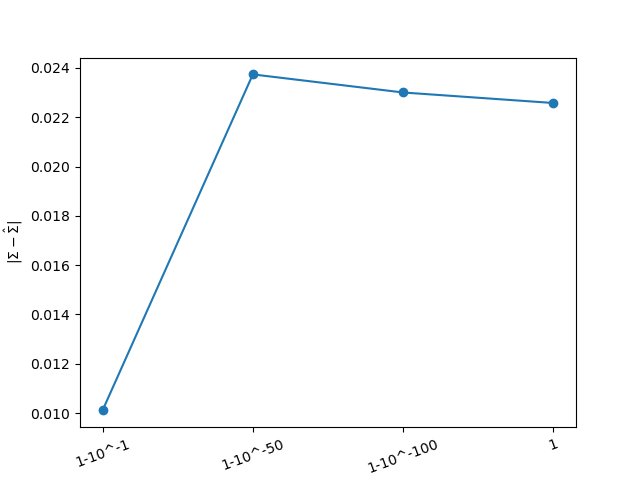
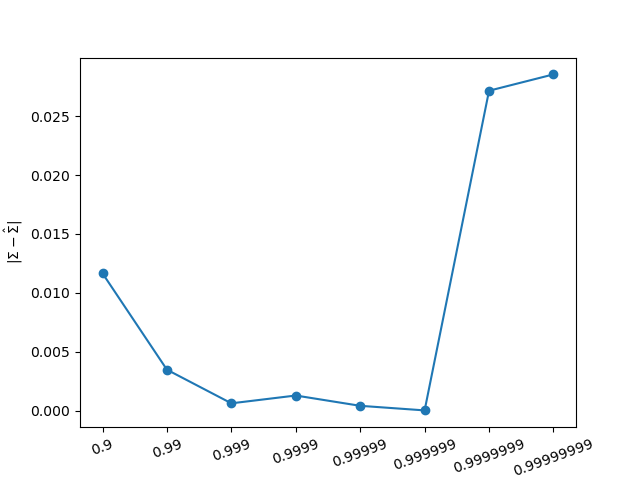
commit

diff --git a/hmc1.html b/hmc1.html
@@ -3,7 +3,7 @@
 "http://www.w3.org/TR/xhtml1/DTD/xhtml1-strict.dtd">
 <html xmlns="http://www.w3.org/1999/xhtml" lang="en" xml:lang="en">
 <head>
-<!-- 2020-05-27 Wed 11:58 -->
+<!-- 2020-05-27 Wed 14:51 -->
 <meta http-equiv="Content-Type" content="text/html;charset=utf-8" />
 <meta name="viewport" content="width=device-width, initial-scale=1" />
 <title>&lrm;</title>
@@ -26,9 +26,9 @@
 <h2>Table of Contents</h2>
 <div id="text-table-of-contents">
 <ul>
-<li><a href="#orge205c0c">Metropolis</a>
+<li><a href="#org2d606e8">Metropolis</a>
 <ul>
-<li><a href="#org9b835f5">Metropolis</a></li>
+<li><a href="#orge205c0c">Metropolis</a></li>
 <li><a href="#orge63d099">Metropolis-Hastings</a></li>
 <li><a href="#org364893f">Relation of the two Metropolis algorithm</a></li>
 </ul>
@@ -36,7 +36,7 @@
 <li><a href="#orgd2d1196">HMC</a>
 <ul>
 <li><a href="#org0eade1c">Hamiltonian Dynamics</a></li>
-<li><a href="#org9bb30f5">&ldquo;Monte Carlo&rdquo;</a>
+<li><a href="#orgfa863f5">&ldquo;Monte Carlo?&rdquo;</a>
 <ul>
 <li><a href="#orgc71e651">Accept prob.</a>
 <ul>
@@ -121,13 +121,13 @@
 <p>
 受到krauth的statistical mechanics algorithm and computation的启发，我们采用扔皮球的方式进行讨论。
 </p>
-<div id="outline-container-orge205c0c" class="outline-2">
-<h2 id="orge205c0c">Metropolis</h2>
-<div class="outline-text-2" id="text-orge205c0c">
+<div id="outline-container-org2d606e8" class="outline-2">
+<h2 id="org2d606e8">Metropolis</h2>
+<div class="outline-text-2" id="text-org2d606e8">
 </div>
-<div id="outline-container-org9b835f5" class="outline-3">
-<h3 id="org9b835f5">Metropolis</h3>
-<div class="outline-text-3" id="text-org9b835f5">
+<div id="outline-container-orge205c0c" class="outline-3">
+<h3 id="orge205c0c">Metropolis</h3>
+<div class="outline-text-3" id="text-orge205c0c">
 <p>
 此时从位置a扔一个皮球，假设皮球只能落在位置a,b,c，而且皮球将等可能地落在这三个位置上。
 </p>
@@ -220,9 +220,9 @@
 </p>
 </div>
 </div>
-<div id="outline-container-org9bb30f5" class="outline-3">
-<h3 id="org9bb30f5">&ldquo;Monte Carlo&rdquo;</h3>
-<div class="outline-text-3" id="text-org9bb30f5">
+<div id="outline-container-orgfa863f5" class="outline-3">
+<h3 id="orgfa863f5">&ldquo;Monte Carlo?&rdquo;</h3>
+<div class="outline-text-3" id="text-orgfa863f5">
 <p>
 假设未知概率 &pi;(x) 参数的维度很高，则普通的蒙特卡洛方法无法进行抽样。
 这时可以其用势能来表示此概率：
@@ -231,12 +231,19 @@
 \[K(p)=-\frac{p^T p}{2}\]
 通过哈密顿仿真得到轨迹，在轨迹上使用蒙特卡洛进行抽样，可以获得 &pi;(x) 的参数。
 以下是哈密顿蒙特卡洛算法[information theory, inference and learning,p388]。
+</p>
+
+<p>
 该算法有两个问题：
 </p>
 <ol class="org-ol">
 <li>接受概率</li>
 <li>能量不守恒</li>
 </ol>
+
+<p>
+我们逐个进行讨论。
+</p>
 
 
 <div class="figure">
@@ -303,7 +310,7 @@
 </p>
 
 <p>
-虚线为哈密顿蒙特卡洛所的接受概率产生的误差，实线为采用更正后公式的结果。除了在步长很小或者很大的情况下，两种方案的结果区别不大。
+虚线为哈密顿蒙特卡洛所的接受概率产生的误差，实线为采用更正后公式的结果。在步长很小或者很大的情况下，两种方案的结果区别不大。
 当步长合适的情况下，更正公式产生的误差要小于原来方案。
 </p>
 
@@ -337,7 +344,7 @@
 <h2 id="orge06d956">Energy Conserved HMC</h2>
 <div class="outline-text-2" id="text-orge06d956">
 <p>
-如果对HMC算法进行修正，使其在重新生成动量的时候（算法第3行）保持总能量守恒(即p1和p2赋值相同)，则状态s1和状态s2的总能量相同，从而二者相互跳转概率相同。
+如果对HMC算法进行修正，使其在重新生成动量的时候（算法第3行）保持总能量守恒(即p1和p2幅值相同)，则状态s1和状态s2的总能量相同，从而二者相互跳转概率相同。
 从状态s2到s3运行哈密顿仿真，总能量不变，s2和s3之间相互跳转概率也相同。
 因此状态s1和s3之间相互跳转概率相同。
 \[\mathcal A(s_1\to s_3)=\mathcal A(s_3\to s_1)\] 
@@ -355,7 +362,7 @@
 
 <p>
 因此在不同仿真之间保持总能量恒定的前提下，正确的接受概率的公式应当为：
-\[p(x \to x_*)=\min(1,\frac{e^{-U(x_*)}}{e^{-U(x)}})\]
+\[p(x_1 \to x_2)=\min(1,\frac{e^{-U(x_2)}}{e^{-U(x_1)}})\]
 </p>
 
 
@@ -394,7 +401,7 @@
 </div>
 </div>
 <div id="postamble" class="status">
-<p class="date">Created: 2020-05-27 Wed 11:58</p>
+<p class="date">Created: 2020-05-27 Wed 14:51</p>
 </div>
 </body>
 </html>

diff --git a/nhmc.html b/nhmc.html
@@ -3,7 +3,7 @@
 "http://www.w3.org/TR/xhtml1/DTD/xhtml1-strict.dtd">
 <html xmlns="http://www.w3.org/1999/xhtml" lang="en" xml:lang="en">
 <head>
-<!-- 2020-05-27 Wed 09:56 -->
+<!-- 2020-05-27 Wed 14:52 -->
 <meta http-equiv="Content-Type" content="text/html;charset=utf-8" />
 <meta name="viewport" content="width=device-width, initial-scale=1" />
 <title>&lrm;</title>
@@ -131,10 +131,15 @@
 
 <div class="org-src-container">
 <pre class="src src-python"><span style="color: #715ab1;">rho</span> = <span style="color: #3a81c3;">[</span>.<span style="color: #4e3163;">9</span>,
-       .<span style="color: #4e3163;">99999999999999999999999999999999999999999999999999</span>,
-       .<span style="color: #4e3163;">9999999999999999999999999999999999999999999999999999999999999999999999999999999999999999999999999999</span>,
-       <span style="color: #4e3163;">1</span>
+       .<span style="color: #4e3163;">99</span>,
+       .<span style="color: #4e3163;">999</span>,
+       .<span style="color: #4e3163;">9999</span>,
+       .<span style="color: #4e3163;">99999</span>,
+       .<span style="color: #4e3163;">999999</span>,
+       .<span style="color: #4e3163;">9999999</span>,
+       .<span style="color: #4e3163;">99999999</span>
 <span style="color: #3a81c3;">]</span>
+
 <span style="color: #3a81c3; font-weight: bold;">for</span> i <span style="color: #3a81c3; font-weight: bold;">in</span> <span style="color: #3a81c3;">range</span><span style="color: #3a81c3;">(</span><span style="color: #3a81c3;">len</span><span style="color: #6c3163;">(</span>rho<span style="color: #6c3163;">)</span><span style="color: #3a81c3;">)</span>:
     <span style="color: #715ab1;">r</span> = rho<span style="color: #3a81c3;">[</span>i<span style="color: #3a81c3;">]</span>
     <span style="color: #715ab1;">SIGMA</span> = np.array<span style="color: #3a81c3;">(</span><span style="color: #6c3163;">[</span><span style="color: #2d9574;">[</span><span style="color: #4e3163;">1</span>, r<span style="color: #2d9574;">]</span>,<span style="color: #2d9574;">[</span>r, <span style="color: #4e3163;">1</span><span style="color: #2d9574;">]</span><span style="color: #6c3163;">]</span><span style="color: #3a81c3;">)</span>
@@ -162,7 +167,7 @@
 </p>
 </div>
 <div id="postamble" class="status">
-<p class="date">Created: 2020-05-27 Wed 09:56</p>
+<p class="date">Created: 2020-05-27 Wed 14:52</p>
 </div>
 </body>
 </html>

diff --git a/sitemap.html b/sitemap.html
@@ -3,7 +3,7 @@
 "http://www.w3.org/TR/xhtml1/DTD/xhtml1-strict.dtd">
 <html xmlns="http://www.w3.org/1999/xhtml" lang="en" xml:lang="en">
 <head>
-<!-- 2020-05-27 Wed 11:57 -->
+<!-- 2020-05-27 Wed 14:52 -->
 <meta http-equiv="Content-Type" content="text/html;charset=utf-8" />
 <meta name="viewport" content="width=device-width, initial-scale=1" />
 <title>Sitemap</title>
@@ -32,7 +32,7 @@
 </ul>
 </div>
 <div id="postamble" class="status">
-<p class="date">Created: 2020-05-27 Wed 11:57</p>
+<p class="date">Created: 2020-05-27 Wed 14:52</p>
 </div>
 </body>
 </html>
